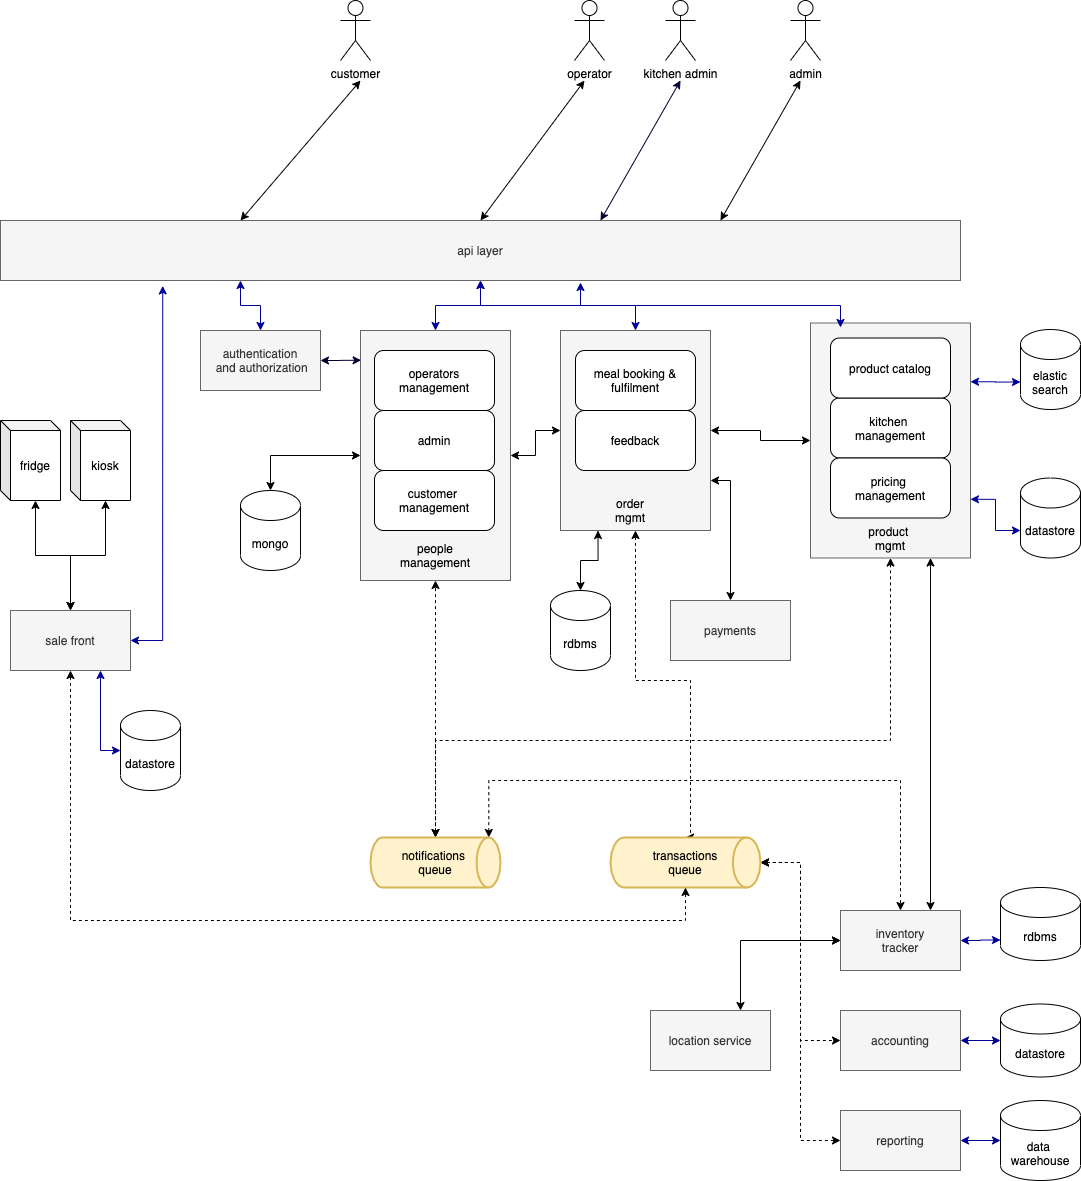
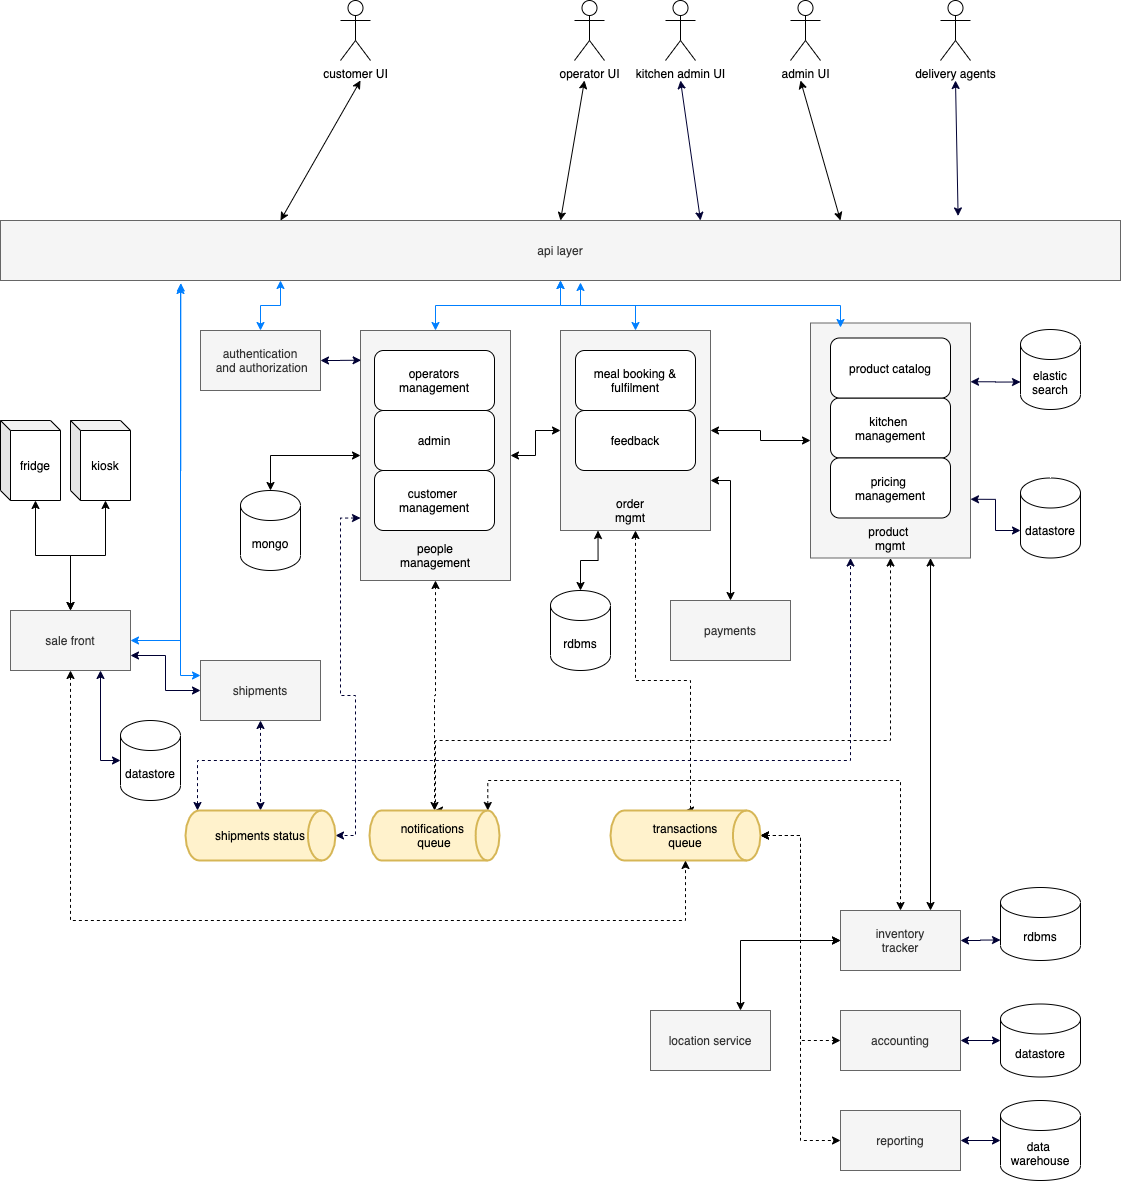
architecture updates - adds readme and missing components in diagram

diff --git a/readme.md b/readme.md
@@ -40,7 +40,44 @@ Here's a basic information on how to interpret the diagram.
 - should be able to create/remove another central admin
 - do everything that a kitchen admin or sale front operator can do.
 
+**delivery agent** : Updates shipment delivery status
+- should be able to update shipment delivery status
+- should be notified of new delivery task.
+
 
 ### General Assumptions:
 - We are assuming that a every type of user can access the application with a mobile and web frontend, which already exists or is being developed parallely. Therefore the architecture of the front end systems is outside the scope of this for now.
-- 
+
+### service responsibilities
+**People management**
+  - manages the various user types of the system like customers, operators, etc.
+
+**Sale front**
+  - A sale front represents the point of sale. It could be a smart fridge or a kiosk. The sale front service talks to these point of sale systems and manages data in them. For example, an operator can talk to sale front service to update the inventory after restocking. Also every sale transaction will be captured and published to the transactions queue to update the inventory status.
+  
+**Product management**
+  - This service handles creation and updation of product catalogue. It also helps the kitchen admin or kitchen manager to know the status of the inventory that he/she is managing. They can also update the kitchen menu.
+  - Talks to inventory tracker to list only the available items.
+
+**Authentication and authorization**
+  - Handles authentication and authorization.
+
+**Order management**
+  - Handles all the orders arriving on the system as well as the feedback for the orders. At the moment they are the subscription orders. Uses RDBMS so that we have better support for transactions if the need be.
+
+**Inventory tracker**
+  - Handles the inventory management. Picks up the transaction details from the transaction queue to update the inventory status. It also notifies the product management about items going out of stock.
+
+**Shipping**
+  - tracks status of various shipments like shipments for customers and also for restocking
+
+**Payments**
+  - Is a third party system being used currently.
+
+**location service**
+  - Is a third party location service to search for the sale fronts nearby
+
+**Accounting**
+  - Is a third party service.
+
+
